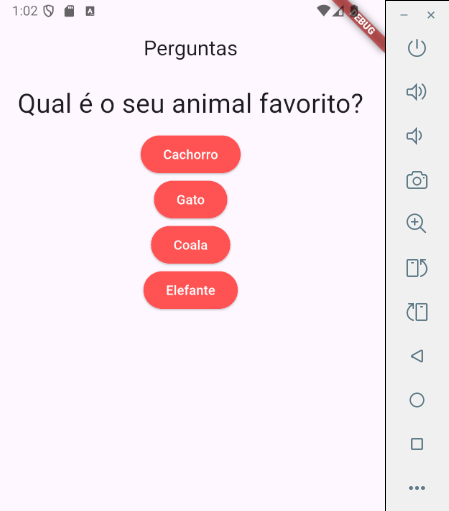
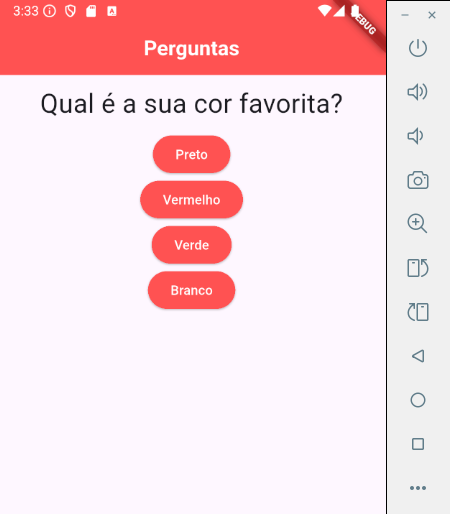
Projeto Perguntas Finalizado

diff --git a/lib/main.dart b/lib/main.dart
@@ -1,60 +1,84 @@
 import 'package:flutter/material.dart';
-import './questao.dart';
-import './resposta.dart';
+import './resultado.dart';
+import './questionario.dart';
 
 main() => runApp(PerguntaApp());
 
 class _PerguntaAppState extends State<PerguntaApp> {
   var _perguntaSelecionada = 0;
-
-  final List<Map<String, Object>> _perguntas = const [
-    {
-      'texto': 'Qual é a sua cor favorita?',
-      'respostas': ['Preto', 'Vermelho', 'Verde', 'Branco'],
-    },
-    {
-      'texto': 'Qual é o seu animal favorito?',
-      'respostas': ['Cachorro', 'Gato', 'Coala', 'Elefante'],
-    },
-    {
-      'texto': 'Qual é o seu instrutor favorito?',
-      'respostas': ['Donizildo', 'Josinaldo', 'Emetério', 'Saturnino'],
-    },
-  ];
-
-  _responder() {
-    setState(() {
-      _perguntaSelecionada++;
-    });
-  }
-
+  var _pontuacaoTotal = 0;
   bool get temPerguntaSelecionada {
     return _perguntaSelecionada < _perguntas.length;
   }
 
+  _responder(int pontuacao) {
+    if (temPerguntaSelecionada) {
+      setState(() {
+        _perguntaSelecionada++;
+        _pontuacaoTotal += pontuacao;
+      });
+    }
+  }
+
+  _reiniciarQuestionario() => setState(() {
+    _perguntaSelecionada = 0;
+    _pontuacaoTotal = 0;
+  });
+
+  final _perguntas = const [
+    {
+      'texto': 'Qual é a sua cor favorita?',
+      'respostas': [
+        {'texto': 'Preto', 'pontuacao': 5},
+        {'texto': 'Vermelho', 'pontuacao': 3},
+        {'texto': 'Verde', 'pontuacao': 10},
+        {'texto': 'Branco', 'pontuacao': 1},
+      ],
+    },
+    {
+      'texto': 'Qual é o seu animal favorito?',
+      'respostas': [
+        {'texto': 'Coala', 'pontuacao': 5},
+        {'texto': 'Elefante', 'pontuacao': 3},
+        {'texto': 'Gato', 'pontuacao': 10},
+        {'texto': 'Cachorro', 'pontuacao': 1},
+      ],
+    },
+    {
+      'texto': 'Qual é o seu instrutor favorito?',
+      'respostas': [
+        {'texto': 'Saturnino', 'pontuacao': 5},
+        {'texto': 'Josinaldo', 'pontuacao': 3},
+        {'texto': 'Donizildo', 'pontuacao': 10},
+        {'texto': 'Emeterio', 'pontuacao': 1},
+      ],
+    },
+  ];
+
   @override
   Widget build(BuildContext context) {
-    List<String> respostas = temPerguntaSelecionada
-        ? (_perguntas[_perguntaSelecionada]['respostas'] as List<String>)
-        : [];
-
     /*for (String textoResposta in respostas) {
       widgets.add(Resposta(textoResposta, _responder));
     }*/
     return MaterialApp(
       home: Scaffold(
-        appBar: AppBar(title: Center(child: Text("Perguntas"))),
+        appBar: AppBar(
+          backgroundColor: Colors.redAccent,
+          foregroundColor: Colors.white,
+          title: Center(
+            child: Text(
+              "Perguntas",
+              style: TextStyle(fontWeight: FontWeight.bold),
+            ),
+          ),
+        ),
         body: temPerguntaSelecionada
-            ? Column(
-                children: [
-                  // Example: show the first person's name if available
-                  Questao(_perguntas[_perguntaSelecionada]['texto'].toString()),
-                  ...respostas.map((t) => Resposta(t, _responder)).toList(),
-                ],
+            ? Questionario(
+                perguntas: _perguntas,
+                perguntaSelecionada: _perguntaSelecionada,
+                quandoResponder: _responder,
               )
-            : Center(
-                child: Text("Parabéns! Você respondeu todas as perguntas!"),
-              ),
+            : Resultado(_pontuacaoTotal, _reiniciarQuestionario),
       ),
     );
   }

diff --git a/lib/resultado.dart b/lib/resultado.dart
@@ -1,0 +1,52 @@
+import 'package:flutter/material.dart';
+
+class Resultado extends StatelessWidget {
+  final int pontuacao;
+  final void Function() reiniciarQuestrionario;
+
+  Resultado(this.pontuacao, this.reiniciarQuestrionario);
+
+  String get fraseResultado {
+    if (pontuacao < 8) {
+      return "Parabéns!";
+    } else if (pontuacao < 12) {
+      return "Você é bom!";
+    } else if (pontuacao < 16) {
+      return "Impressionante!";
+    } else {
+      return "Nível Mestre Jedi!";
+    }
+  }
+
+  @override
+  Widget build(BuildContext context) {
+    return Container(
+      color: Colors.amber[50],
+      width: double.infinity,
+      height: double.infinity,
+      alignment: Alignment.center,
+      child: Column(
+        mainAxisAlignment: MainAxisAlignment.center,
+        children: [
+          Text(
+            fraseResultado,
+            style: TextStyle(
+              fontSize: 28,
+              fontWeight: FontWeight.bold,
+              color: Colors.redAccent,
+            ),
+            textAlign: TextAlign.center,
+          ),
+          ElevatedButton(
+            style: ElevatedButton.styleFrom(
+              backgroundColor: (Colors.blueAccent),
+              foregroundColor: (Colors.white),
+            ),
+            child: Text("Reiniciar Questionário"),
+            onPressed: reiniciarQuestrionario,
+          ),
+        ],
+      ),
+    );
+  }
+}

diff --git a/lib/questionario.dart b/lib/questionario.dart
@@ -1,0 +1,40 @@
+import 'package:flutter/material.dart';
+import './questao.dart';
+import './resposta.dart';
+
+class Questionario extends StatelessWidget {
+  final int perguntaSelecionada;
+  final void Function(int) quandoResponder;
+  final List<Map<String, Object>>? perguntas;
+
+  Questionario({
+    required this.quandoResponder,
+    required this.perguntaSelecionada,
+    required this.perguntas,
+  });
+
+  bool get temPerguntaSelecionada {
+    return perguntas != null && perguntaSelecionada < perguntas!.length;
+  }
+
+  @override
+  Widget build(BuildContext context) {
+    List<Map<String, Object>> respostas = temPerguntaSelecionada
+        ? perguntas![perguntaSelecionada]['respostas']
+              as List<Map<String, Object>>
+        : [];
+    return Column(
+      children: [
+        Questao(perguntas![perguntaSelecionada]['texto'].toString()),
+        ...respostas
+            .map(
+              (r) => Resposta(
+                r['texto'] as String,
+                () => quandoResponder(r['pontuacao'] as int),
+              ),
+            )
+            .toList(),
+      ],
+    );
+  }
+}
